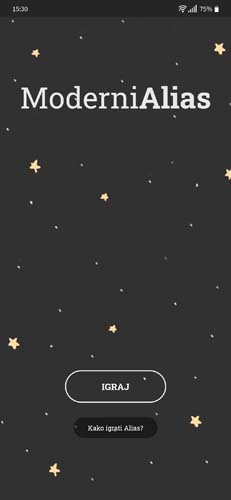
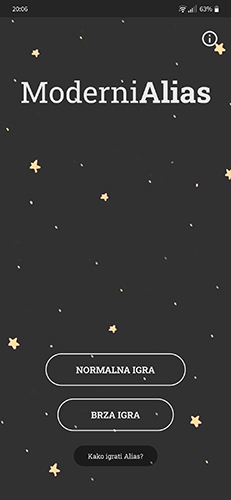
Screenshots...

diff --git a/README.md b/README.md
@@ -8,6 +8,7 @@ The game is simple, light (6.5MB) and doesn't use any permissions.
 
 ## Things I still want to do:
 
+- [ ] During normal game, clicking the (x) and continuing the game makes the Correct/Wrong buttons unusable
 - [ ] Add a short (?) with a tooltip explaining about normal and quick games
 - [ ] Implement 'HowToPlay' screen
 - [ ] Implement 'GeneralInfo' screen
@@ -32,20 +33,20 @@ The game is simple, light (6.5MB) and doesn't use any permissions.
 
 ### 1. Starting page
 
-![Home page](https://raw.githubusercontent.com/jokilic/moderni_alias/master/screenshots/1home_page.jpg)
+![Home page](https://raw.githubusercontent.com/jokilic/moderni_alias/master/screenshots/1-home_page.jpg)
 
 ### 2. Choose your settings
 
-![Screenshot of the app](https://raw.githubusercontent.com/jokilic/moderni_alias/master/screenshots/2start_game.jpg)
+![Screenshot of the app](https://raw.githubusercontent.com/jokilic/moderni_alias/master/screenshots/2-start_game.jpg)
 
 ### 3. Start playing the game
 
-![Screenshot of the app](https://raw.githubusercontent.com/jokilic/moderni_alias/master/screenshots/3playing_game1.jpg)
+![Screenshot of the app](https://raw.githubusercontent.com/jokilic/moderni_alias/master/screenshots/3-playing_game1.jpg)
 
 ### 4. Game in progress
 
-![Screenshot of the app](https://raw.githubusercontent.com/jokilic/moderni_alias/master/screenshots/4playing_game2.jpg)
+![Screenshot of the app](https://raw.githubusercontent.com/jokilic/moderni_alias/master/screenshots/4-playing_game2.jpg)
 
 ### 5. We have a winner!
 
-![Screenshot of the app](https://raw.githubusercontent.com/jokilic/moderni_alias/master/screenshots/5game_finished.jpg)
+![Screenshot of the app](https://raw.githubusercontent.com/jokilic/moderni_alias/master/screenshots/5-game_finished.jpg)
